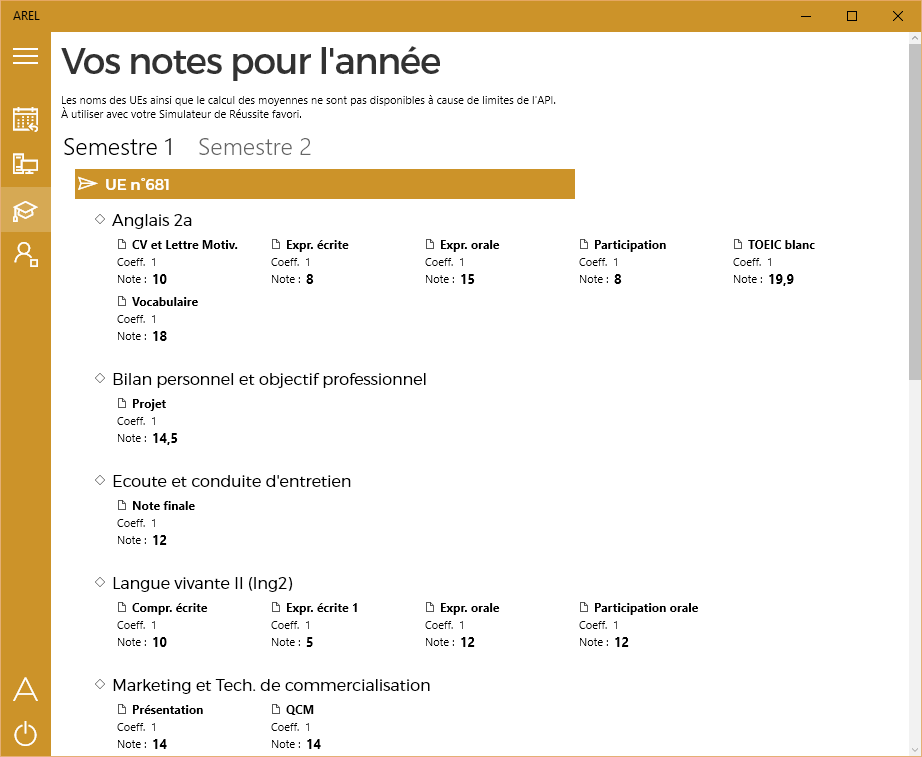
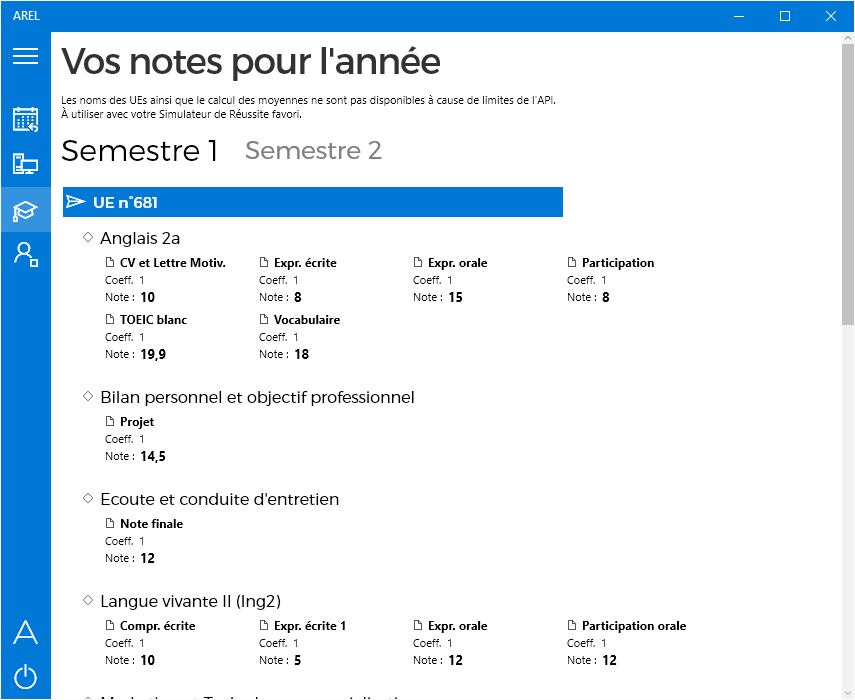
Bugfix planning et scrolling sur les notes

diff --git a/arelv1/Pages/Planning.xaml b/arelv1/Pages/Planning.xaml
@@ -12,13 +12,11 @@
 
         <StackPanel>
 
-
-
             <Grid x:Name="button_week">
 
                 <TextBlock x:Name="dateJour" FontSize="36" HorizontalAlignment="Left" CharacterSpacing="-30" 
                            Margin="10,5,0,10" Foreground="#FF323232" TextWrapping="Wrap" FontFamily="ms-appx:/Assets/Montserrat-Regular.otf#Montserrat">
-        		Emploi du Temps AREL - Jour X
+        		👌👺👉 Emploi du Temps AREL
                 </TextBlock>
 
             </Grid>
@@ -26,7 +24,7 @@
             <Grid BorderThickness="0" BorderBrush="Black" >
                 <Grid.ColumnDefinitions >
                     <ColumnDefinition MaxWidth="600"/>
-                    <ColumnDefinition MaxWidth="330"/>
+                    <ColumnDefinition MaxWidth="345"/>
                 </Grid.ColumnDefinitions>
 
                 <StackPanel Grid.Column="1">
@@ -37,7 +35,7 @@
                                 <CompositeTransform ScaleY="1.5" ScaleX="1.5"/>
                             </SymbolIcon.RenderTransform>
                         </SymbolIcon>
-                        <TextBlock  FontSize="28" HorizontalAlignment="Left" CharacterSpacing="-70" Margin="40,8,0,20" Foreground="#FF323232" TextWrapping="Wrap" FontFamily="ms-appx:/Assets/Montserrat-Light.otf#Montserrat">
+                        <TextBlock  FontSize="28" HorizontalAlignment="Left" CharacterSpacing="-70" Margin="40,8,15,20" Foreground="#FF323232" TextWrapping="Wrap" FontFamily="ms-appx:/Assets/Montserrat-Light.otf#Montserrat">
         		<Run Text="Vos cours de la journée ..."/>
                         </TextBlock>
                     </Grid>

diff --git a/arelv1/Pages/Notes.xaml b/arelv1/Pages/Notes.xaml
@@ -70,9 +70,13 @@
 
                 <TextBlock TextWrapping="Wrap" FontSize="11" Margin="10,0,0,0">Les noms des UEs ainsi que le calcul des moyennes ne sont pas disponibles à cause de limites de l'API.<LineBreak/> À utiliser avec votre Simulateur de Réussite favori.</TextBlock>
 
-                <StackPanel x:Name="semestresPivot" Orientation="Horizontal" Margin="10,5,0,20" Visibility="Visible">
-                    <TextBlock x:Name="pivotSem1" Margin="0,0,0,0" FontSize="25" FontFamily="ms-appx:/Assets/Montserrat-Light.otf#Montserrat" PointerPressed="showSem1" >Semestre 1</TextBlock>
-                    <TextBlock x:Name="pivotSem2" Margin="25,0,0,0" FontSize="25" FontFamily="ms-appx:/Assets/Montserrat-Light.otf#Montserrat" PointerPressed="showSem2" Foreground="Gray" Visibility="Visible" >Semestre 2</TextBlock>
+                <StackPanel x:Name="semestresPivot" Orientation="Horizontal" Margin="10,10,0,20" Visibility="Visible">
+                    <TextBlock x:Name="pivotSem1" Margin="0,0,0,0" FontSize="30"  VerticalAlignment="Center" FontFamily="ms-appx:/Assets/Montserrat-Light.otf#Montserrat" PointerPressed="showSem1" >
+                        Semestre 1
+                    </TextBlock>
+                    <TextBlock x:Name="pivotSem2" Margin="10,0,0,0" FontSize="25"  VerticalAlignment="Center" FontFamily="ms-appx:/Assets/Montserrat-Light.otf#Montserrat" PointerPressed="showSem2" Foreground="Gray" Visibility="Visible" >
+                        Semestre 2
+                    </TextBlock>
                 </StackPanel>
 
                 <!--Data Binding notes Semestre 1-->

diff --git a/arelv1/Pages/About.xaml b/arelv1/Pages/About.xaml
@@ -18,7 +18,7 @@
 
                 <TextBlock FontSize="30" HorizontalAlignment="Left" CharacterSpacing="-30" 
         	    Margin="10,5,0,10" Foreground="#FF323232" TextWrapping="Wrap" FontFamily="ms-appx:/Assets/Montserrat-Light.otf#Montserrat">
-        	    Version 0.7.7  
+        	    Version 0.7.8  
             </TextBlock>
 
 

diff --git a/arelv1/Pages/Planning.xaml.cs b/arelv1/Pages/Planning.xaml.cs
@@ -32,7 +32,7 @@ namespace arelv1.Pages
         {
             this.InitializeComponent();
 
-            dateJour.Text = "Emploi du Temps AREL - " + getDayStr(now, 0);
+            dateJour.Text = "Nous sommes le " + getDayStr(now, 0);
 
             if (API.isOnline())
                 updatePlanning(0); //Stocke le planning du jour dans la clé "planning" de l'appli si on a internet
@@ -197,11 +197,8 @@ namespace arelv1.Pages
                     {
                         macase.Children.Add(salleBlock);
                     }
-
-
-
-
-                    macase.Background = new SolidColorBrush(HexToColor(couleur));
+                    
+                    macase.Background = HexToColor(couleur);
 
                     //bugfix chelou mais si on en arrive là c'est que y'a vraiment eu un souci
                     if (col < 0)
@@ -261,10 +258,15 @@ namespace arelv1.Pages
                         salle = node02.InnerText;
                 }
 
-                //Récup nom complet prof
                 string idProf = node.ChildNodes[3].InnerText;
+                string profName = node.ChildNodes[4].InnerText;
+
+                //Récup nom complet prof...si on a accès à l'API parce que je les sauvegarde pas dans les données de l'appli
+                if (API.isOnline())
+                { 
                 string xmlj = API.getInfo("/api/users/" + idProf);
-                string profName = API.getUserFullName(xmlj);
+                profName = API.getUserFullName(xmlj);
+                }
 
                 if (prof != "" && matiere != "" && debut != "" && fin != "" && couleur != "" && salle != "")
                     ajoutCours(profName, debut, fin, matiere, couleur, lundi, salle);
@@ -344,87 +346,15 @@ namespace arelv1.Pages
 
         //-------------------- convertisseur hexa -> rgb ---------------------------------------------
 
-        public Color HexToColor(String hexString)
+        public SolidColorBrush HexToColor(String hex)
         {
-            Color actColor;
-            int r, g, b;
-            r = 0;
-            g = 0;
-            b = 0;
-            if ((hexString.StartsWith("#")) && (hexString.Length == 7))
-            {
-                r = HexToInt(hexString.Substring(1, 1)) * 16 + HexToInt(hexString.Substring(1, 1));
-                g = HexToInt(hexString.Substring(3, 1)) * 16 + HexToInt(hexString.Substring(4, 1));
-                b = HexToInt(hexString.Substring(5, 1)) * 16 + HexToInt(hexString.Substring(6, 1));
-
-                actColor = Color.FromArgb(255, Convert.ToByte(r), Convert.ToByte(g), Convert.ToByte(b));
-            }
-            else
-            {
-                actColor = Color.FromArgb(0, 0, 0, 0);
-            }
-            return actColor;
-        }
-
-        public int HexToInt(string s)
-        {
-            int res;
-            switch (s)
-            {
-                case "1":
-                    res = 1;
-                    break;
-                case "2":
-                    res = 2;
-                    break;
-                case "3":
-                    res = 3;
-                    break;
-                case "4":
-                    res = 4;
-                    break;
-                case "5":
-                    res = 5;
-                    break;
-                case "6":
-                    res = 6;
-                    break;
-                case "7":
-                    res = 7;
-                    break;
-                case "8":
-                    res = 8;
-                    break;
-                case "9":
-                    res = 9;
-                    break;
-                case "a":
-                    res = 10;
-                    break;
-                case "b":
-                    res = 11;
-                    break;
-                case "c":
-                    res = 12;
-                    break;
-                case "d":
-                    res = 13;
-                    break;
-                case "e":
-                    res = 14;
-                    break;
-                case "f":
-                    res = 15;
-                    break;
-                case "0":
-                    res = 0;
-                    break;
-                default:
-                    res = 0;
-                    break;
-
-            }
-            return res;
+            hex = hex.Replace("#", string.Empty);
+            byte r = (byte)(Convert.ToUInt32(hex.Substring(0, 2), 16));
+            byte g = (byte)(Convert.ToUInt32(hex.Substring(2, 2), 16));
+            byte b = (byte)(Convert.ToUInt32(hex.Substring(4, 2), 16));
+            //byte b = (byte)(Convert.ToUInt32(hex.Substring(6, 2), 16));
+            SolidColorBrush myBrush = new SolidColorBrush(Windows.UI.Color.FromArgb(255, r, g, b));
+            return myBrush;
         }
 
     }

diff --git a/arelv1/Pages/Notes.xaml.cs b/arelv1/Pages/Notes.xaml.cs
@@ -171,7 +171,7 @@ namespace arelv1.Pages
             }
 
             ueSem1.sortUEs();
-            ueSem2.sortUEs();
+            //ueSem2.sortUEs();
             //Fiou, enfin fini. Le XAML s'occupe de construire la vue des notes via data binding.
         }
 
@@ -194,6 +194,8 @@ namespace arelv1.Pages
             sem2Liste.Visibility = Visibility.Collapsed;
             pivotSem1.Foreground = new SolidColorBrush(Windows.UI.Colors.Black);
             pivotSem2.Foreground = new SolidColorBrush(Windows.UI.Colors.DarkGray);
+            pivotSem1.FontSize = 30;
+            pivotSem2.FontSize = 25;
             UpdateLayout();
 
         }
@@ -204,6 +206,8 @@ namespace arelv1.Pages
             sem2Liste.Visibility = Visibility.Visible;
             pivotSem2.Foreground = new SolidColorBrush(Windows.UI.Colors.Black);
             pivotSem1.Foreground = new SolidColorBrush(Windows.UI.Colors.DarkGray);
+            pivotSem2.FontSize = 30;
+            pivotSem1.FontSize = 25;
             UpdateLayout();
         }
     }

diff --git a/README.md b/README.md
@@ -6,10 +6,13 @@ Une application cross-devices Windows 10 utilisant l'api d'AREL pour :
 - Afficher ses notes (mais sans calcul de moyenne à cause d'un manque d'informations)
 - Afficher ses absences si un jour l'API le permet... On est pas des sorciers.  
 
+*Déployer cette appli  
+Un fichier Resources.resw doit être ajouté dans le projet arelv1, contenant votre clé d'API(APIKey) et un login/mot de passe de test (LoginTest/PasswordTest).  
+
+![soon](https://assets.windowsphone.com/85864462-9c82-451e-9355-a3d5f874397a/English_get-it-from-MS_InvariantCulture_Default.png)
+
 ![emploi du temps](screen01.png)  
 ![notes](screen02.png)
 ![salles libres](screen03.png)
 
 
-!Déployer l'appli
-Un fichier Resources.resw doit être ajouté dans le projet arelv1, contenant votre clé d'API(APIKey) et un login/mot de passe de test (LoginTest/PasswordTest).
